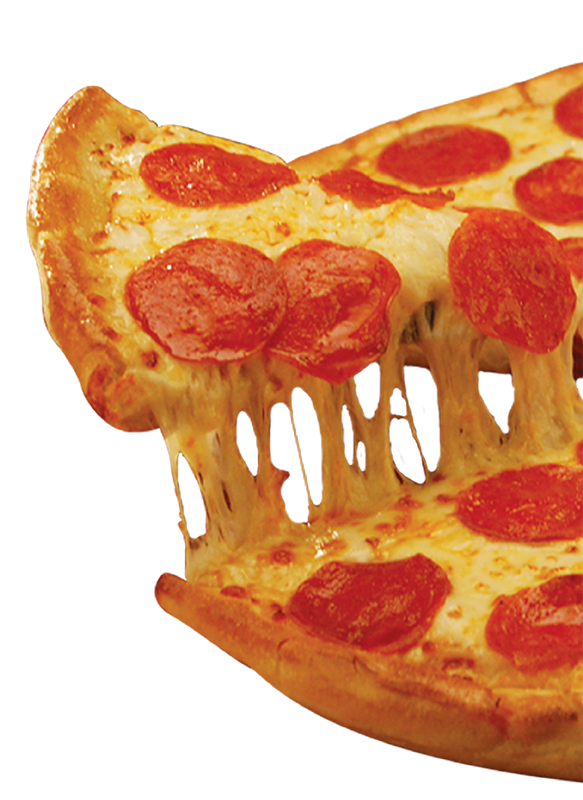
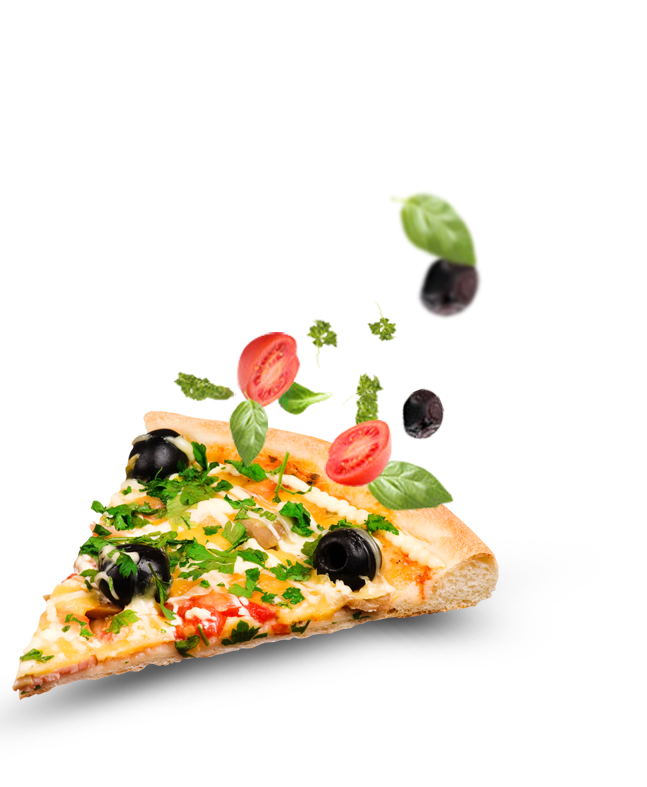
Pizza fotografini degistir, kebabi yukari cek, pizzayi Merhaba yazisina yaklastir
Yeni pizza (zeytin/domates/feslegen susleli dilim) ayni dosya adiyla
degistirildi. Sis kebap biraz yukari alindi. Pizza artik "Merhaba..."
altyazisinin hemen soluna, metne gercekten cakismadan (10px bosluk)
yakin konumlandirildi — bu hassas konum sadece lg (1024px+) ekranda
guvenilir oldugu icin pizza sadece o boyuttan itibaren gosteriliyor.

diff --git a/components/HomeWelcomeSection.tsx b/components/HomeWelcomeSection.tsx
@@ -16,7 +16,7 @@ const HERO_IMAGES = [
     alt: "Şiş kebap",
     width: 869,
     height: 977,
-    className: "hidden sm:block sm:w-28 sm:top-4 sm:left-6 lg:w-44 lg:top-10 lg:left-16 animate-float",
+    className: "hidden sm:block sm:w-28 sm:top-1 sm:left-6 lg:w-44 lg:top-3 lg:left-16 animate-float",
   },
   {
     src: "/domates-soslu-makarna.png",
@@ -49,9 +49,9 @@ const HERO_IMAGES = [
   {
     src: "/pizza-dilimi.png",
     alt: "Pizza dilimi",
-    width: 583,
-    height: 800,
-    className: "hidden w-12 bottom-6 left-24 md:block animate-float-delayed",
+    width: 647,
+    height: 787,
+    className: "hidden lg:block lg:w-16 lg:top-[125px] lg:left-[304px] animate-float-delayed",
   },
 ];
 
